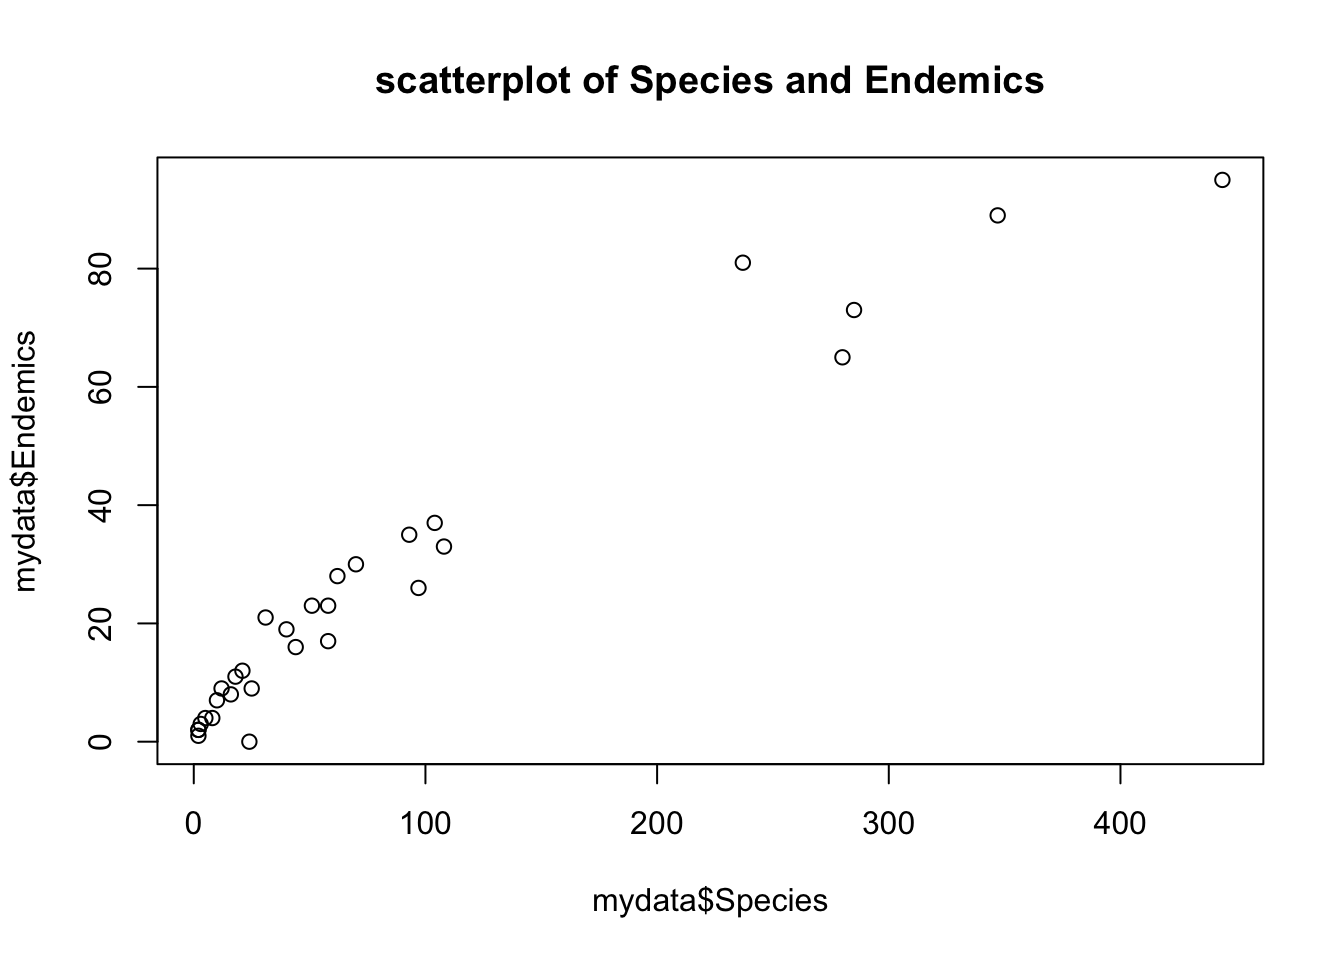
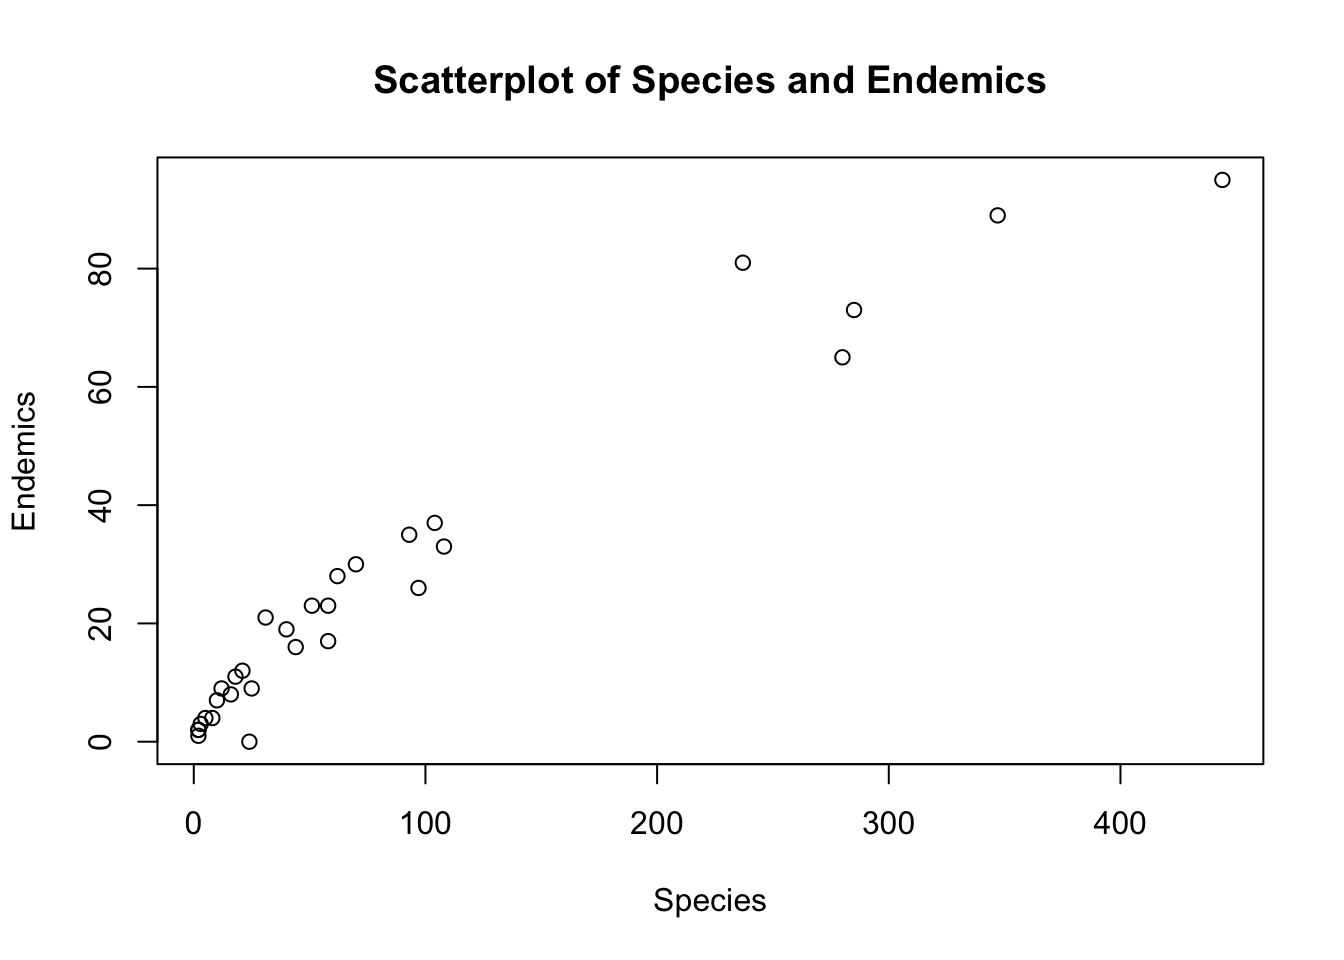
Build site.

Changed region(s): [[0.2812, 0.0625, 0.7812, 0.0938], [0.4375, 0.9062, 0.625, 0.9688], [0.0, 0.3438, 0.0312, 0.625]]

diff --git a/docs/gala.html b/docs/gala.html
@@ -497,10 +497,10 @@ This reproducible <a href="http://rmarkdown.rstudio.com">R Markdown</a> analysis
 <div class="panel panel-default">
 <div class="panel-heading">
 <p class="panel-title">
-<a data-toggle="collapse" data-parent="#workflowr-checks" href="#strongRepositoryversionstrongahrefhttpsgithubcomzhengzihaosqsHW3tree0aa50e2a785034cc2fca745501203dbc3bd5a6c9targetblank0aa50e2a"> <span class="glyphicon glyphicon-ok text-success" aria-hidden="true"></span> <strong>Repository version:</strong> <a href="https://github.com/zhengzihaosqs/HW3/tree/0aa50e2a785034cc2fca745501203dbc3bd5a6c9" target="_blank">0aa50e2</a> </a>
+<a data-toggle="collapse" data-parent="#workflowr-checks" href="#strongRepositoryversionstrongahrefhttpsgithubcomzhengzihaosqsHW3treeff6d1f92d01146911714f25d4c821d239a5ab6a4targetblankff6d1f9a"> <span class="glyphicon glyphicon-ok text-success" aria-hidden="true"></span> <strong>Repository version:</strong> <a href="https://github.com/zhengzihaosqs/HW3/tree/ff6d1f92d01146911714f25d4c821d239a5ab6a4" target="_blank">ff6d1f9</a> </a>
 </p>
 </div>
[2 lines of base64/hex data omitted]
 <div class="panel-body">
 <p>
 Great! You are using Git for version control. Tracking code development and connecting the code version to the results is critical for reproducibility. The version displayed above was the version of the Git repository at the time these results were generated. <br><br> Note that you need to be careful to ensure that all relevant files for the analysis have been committed to Git prior to generating the results (you can use <code>wflow_publish</code> or <code>wflow_git_commit</code>). workflowr only checks the R Markdown file, but you know if there are other scripts or data files that it depends on. Below is the status of the Git repository when the results were generated:
@@ -548,6 +548,40 @@ Message
 <tbody>
 <tr>
 <td>
+Rmd
+</td>
+<td>
+<a href="https://github.com/zhengzihaosqs/HW3/blob/ff6d1f92d01146911714f25d4c821d239a5ab6a4/analysis/gala.Rmd" target="_blank">ff6d1f9</a>
+</td>
+<td>
+zhengzihaosqs
+</td>
+<td>
+2019-10-20
+</td>
+<td>
+Simple linear regression
+</td>
+</tr>
+<tr>
+<td>
+html
+</td>
+<td>
+<a href="https://rawcdn.githack.com/zhengzihaosqs/HW3/f83da1698eb0ee0f20976f10f367f195b16d8870/docs/gala.html" target="_blank">f83da16</a>
+</td>
+<td>
+zhengzihaosqs
+</td>
+<td>
+2019-10-20
+</td>
+<td>
+Build site.
+</td>
+</tr>
+<tr>
+<td>
 html
 </td>
 <td>
@@ -589,6 +623,7 @@ Analyze the gala dataset
 </div>
 <div id="introduction" class="section level2">
 <h2>Introduction</h2>
+<p>At first, we input data from local csv file for further analysis.</p>
 <pre class="r"><code>library(readr)
 mydata &lt;- read.csv(&quot;MyData.csv&quot;)
 mydata</code></pre>
@@ -624,13 +659,13 @@ mydata</code></pre>
 29      Tortuga      16        8    1.24       186     6.8  50.9    17.95
 30         Wolf      21       12    2.85       253    34.1 254.7     2.33</code></pre>
 <p>This dataset describe some information about species diversity on the Galapagos Islands, the first column is the names of the island, and for other columns their meanings are:</p>
-<p>Species–the number of plant species found on the island</p>
-<p>Endemics–the number of endemic species</p>
-<p>Area–the area of the island (km<span class="math inline">\(^2\)</span>)</p>
-<p>Elevation–the highest elevation of the island (m)</p>
-<p>Nearest–the distance from the nearest island (km)</p>
-<p>Scruz–the distance from Santa Cruz island (km)</p>
-<p>Adjacent–the area of the adjacent island (square km)</p>
+<p>Species:–the number of plant species found on the island</p>
+<p>Endemics:–the number of endemic species</p>
+<p>Area:–the area of the island (km<span class="math inline">\(^2\)</span>)</p>
+<p>Elevation:–the highest elevation of the island (m)</p>
+<p>Nearest:–the distance from the nearest island (km)</p>
+<p>Scruz:–the distance from Santa Cruz island (km)</p>
+<p>Adjacent:–the area of the adjacent island (square km)</p>
 <p>We show descriptive statistics for Species and Area:</p>
 <pre class="r"><code>summary(mydata$Species)</code></pre>
 <pre><code>   Min. 1st Qu.  Median    Mean 3rd Qu.    Max. 
@@ -645,8 +680,8 @@ mydata</code></pre>
 <p>Information about mean, median, the minimum and maximum value, quantile points and standard deviation for two columns are shown above.</p>
 <p>Now we are going to add plots to reveal more feature of these two columns.</p>
 <pre class="r"><code>par(mfrow=c(1,2))
-hist(mydata$Species,main=&quot;Histogram of Species&quot;)
-hist(mydata$Endemics,main=&quot;Histogram of Endemics&quot;)</code></pre>
+hist(mydata$Species,main=&quot;Histogram of Species&quot;,xlab=&quot;Species&quot;)
+hist(mydata$Endemics,main=&quot;Histogram of Endemics&quot;,xlab=&quot;Endemics&quot;)</code></pre>
 <p><img src="figure/gala.Rmd/distribution-1.png" width="672" style="display: block; margin: auto;" /></p>
 <p>
 <button type="button" class="btn btn-default btn-xs btn-workflowr btn-workflowr-fig" data-toggle="collapse" data-target="#fig-distribution-1">
@@ -685,9 +720,9 @@ zhengzihaosqs
 </table>
 </div>
 </div>
-<p>We plot two histograms to show the distributions of two columns, but we can not see much information from histograms.</p>
+<p>We plot two histograms to show the distributions of two columns, but we can not see much information from histograms. So we decide plot a scatterplot to show the relationship between two columns.</p>
 <pre class="r"><code>par(mfrow=c(1,1))
-plot(mydata$Species,mydata$Endemics,main=&quot;scatterplot of Species and Endemics&quot;)</code></pre>
+plot(mydata$Species,mydata$Endemics,main=&quot;Scatterplot of Species and Endemics&quot;,xlab=&quot;Species&quot;,ylab=&quot;Endemics&quot;)</code></pre>
 <p><img src="figure/gala.Rmd/scatter%20plot-1.png" width="672" style="display: block; margin: auto;" /></p>
 <p>
 <button type="button" class="btn btn-default btn-xs btn-workflowr btn-workflowr-fig" data-toggle="collapse" data-target="#fig-no-spaces-scatter-plot-1">
@@ -726,7 +761,35 @@ zhengzihaosqs
 </table>
 </div>
 </div>
-<p>And we plot a scatterplot to show the relationship between two columns. We can see a positive correlation between them.</p>
+<p>We can see a positive correlation between them.</p>
+<p>Now we run a simple linear regression to estimate the relationship between Endemics and Species</p>
+<pre class="r"><code>lmd&lt;-lm(Endemics~Species,mydata)
+slmd&lt;-summary(lmd)
+slmd</code></pre>
+<pre><code>
+Call:
+lm(formula = Endemics ~ Species, data = mydata)
+
+Residuals:
+     Min       1Q   Median       3Q      Max 
+-14.1469  -3.9305  -0.3517   3.3289  19.7692 
+
+Coefficients:
+            Estimate Std. Error t value Pr(&gt;|t|)    
+(Intercept)  6.37028    1.52539   4.176 0.000262 ***
+Species      0.23148    0.01079  21.443  &lt; 2e-16 ***
+---
+Signif. codes:  0 &#39;***&#39; 0.001 &#39;**&#39; 0.01 &#39;*&#39; 0.05 &#39;.&#39; 0.1 &#39; &#39; 1
+
+Residual standard error: 6.664 on 28 degrees of freedom
+Multiple R-squared:  0.9426,    Adjusted R-squared:  0.9406 
+F-statistic: 459.8 on 1 and 28 DF,  p-value: &lt; 2.2e-16</code></pre>
+<p>From the summary information of the regression result, we see that the p-value for intercept and species is 2.615663510^{-4} and 6.472637810^{-19}, which means the covariate and intercept terms are significant.</p>
+<p>The estimated value of intercept is 6.3702808 and the estimated value of Species is 0.2314789. We add the fitted line to the scatterplot:</p>
+<pre class="r"><code>plot(mydata$Species,mydata$Endemics,main=&quot;Scatterplot of Species and Endemics&quot;)
+abline(lmd)</code></pre>
+<p><img src="figure/gala.Rmd/unnamed-chunk-4-1.png" width="672" style="display: block; margin: auto;" /></p>
+<p>We can see that the linear model fits the data well.</p>
 <br>
 <p>
 <button type="button" class="btn btn-default btn-workflowr btn-workflowr-sessioninfo" data-toggle="collapse" data-target="#workflowr-sessioninfo" style="display: block;">
